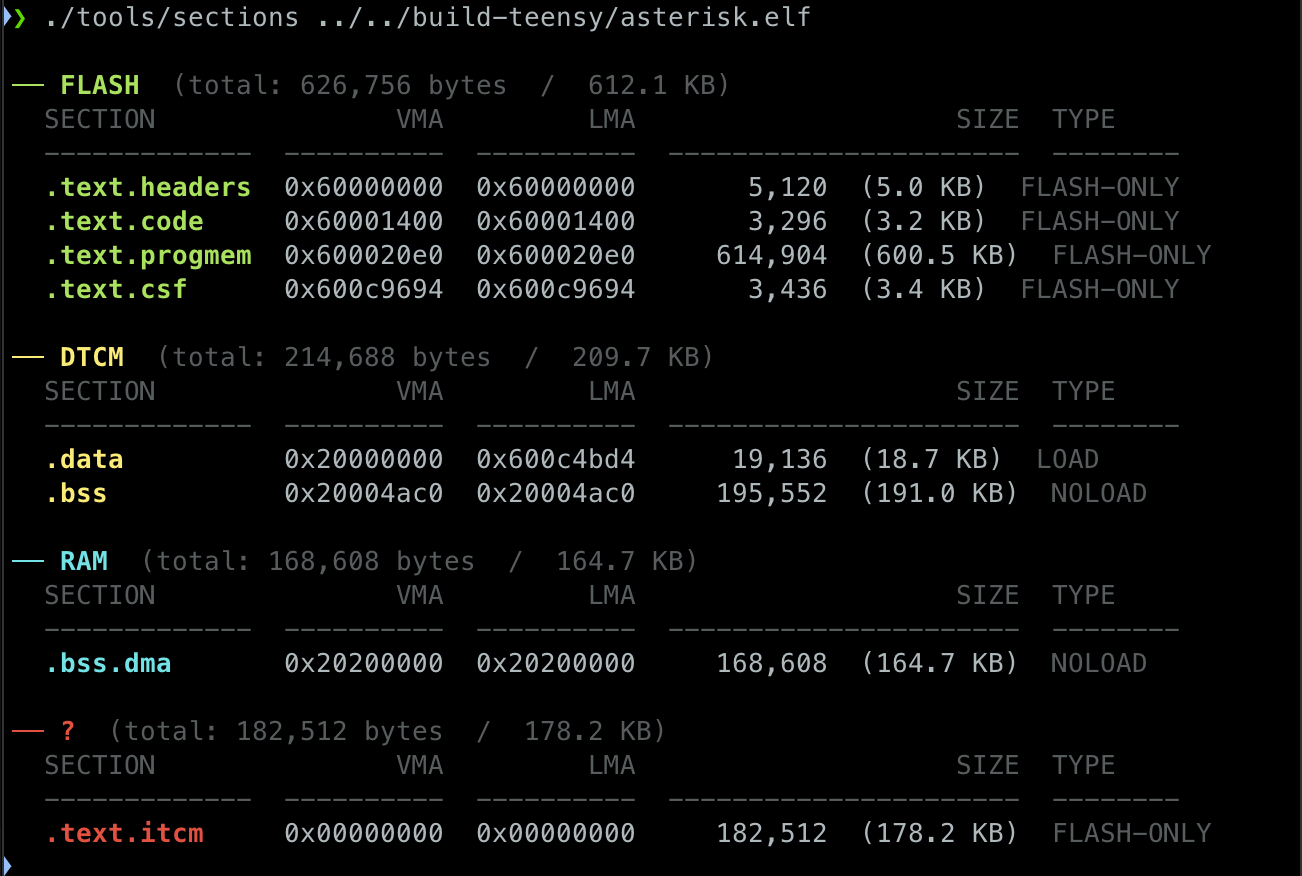
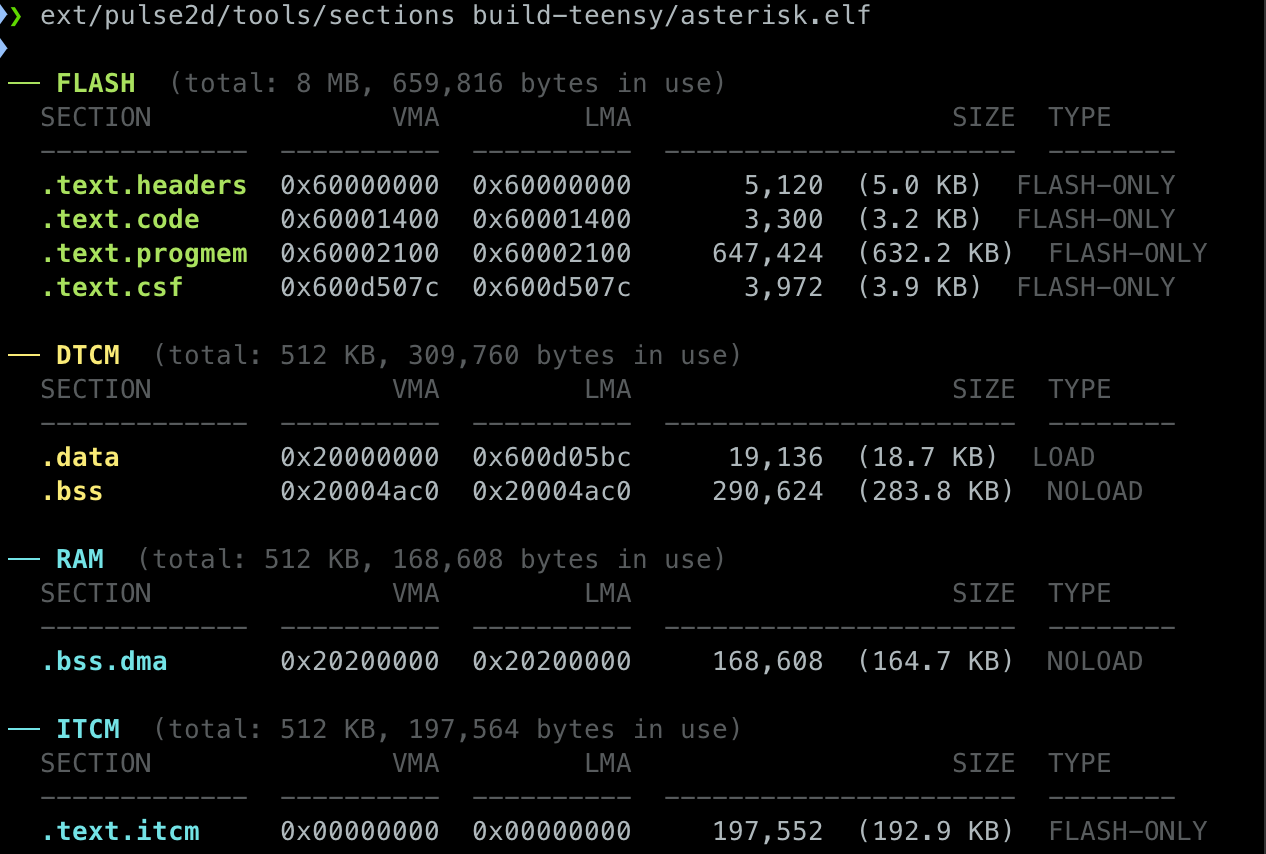
chore: sections tool ITCM region, accurate regional totals, capacity vs in-use header

diff --git a/README.md b/README.md
@@ -335,15 +335,15 @@ The gamepad driver targets the [Adafruit Seesaw Gamepad QT](https://www.adafruit
 
 ## Assets
 
-Python tools for converting PNG assets are in `tools/` - both require [Pillow](https://pillow.readthedocs.io/).
+Python tools for converting PNG assets are in `tools/`. All three require [Pillow](https://pillow.readthedocs.io/).
 
-- `png2bin` - converts a PNG to the raw RGB565 binary format read by `Storage::load_sprite` on Teensy. Use this for game-object sprites (ships, enemies, projectiles) that are loaded from the SD card at runtime. Transparent pixels become `0xF81F` (magenta chroma-key).
+- `png2bin` - converts a PNG to the raw RGB565 binary format read by `Storage::load_sprite` on Teensy. Use this for sprites (ships, enemies, projectiles) loaded from the SD card at runtime. Transparent pixels become `0xF81F` (magenta chroma-key).
 
   ```bash
   tools/png2bin sprite.png sprite.bin 64 64
   ```
 
-- `png2header` - converts a PNG to a C header containing an RGB565 pixel array for use as a full-screen background. Use `PULSE2D_SPRITE_FLASH` and `PULSE2D_ADD_PARALLAX_LAYER` to register the header as a parallax layer. The output file is generated - do not edit it by hand.
+- `png2header` - converts a PNG to a C header containing a flat RGB565 pixel array for use as a parallax background layer. Register the output with `set_sprite_flash` and `add_parallax_layer`. Do not edit the generated file by hand.
 
   ```bash
   tools/png2header background.png include/nebula-bg.h bg_1 320 240
@@ -351,7 +351,7 @@ Python tools for converting PNG assets are in `tools/` - both require [Pillow](h
 
   Generates `bg_1_width`, `bg_1_height`, and `bg_1[320 * 240]`.
 
-- `animation2header` - convert multiple PNGs to a C header containing a contiguous RGB565 pixel array for use as spritesheets.
+- `animation2header` - converts multiple PNGs to a C header containing a contiguous RGB565 pixel array for use as a spritesheet. Pass frames in order; the array is laid out sequentially.
 
   ```bash
   tools/animation2header include/laser-anim.h laser_anim 54 32 laser-sprite1.png laser-sprite2.png laser-sprite3.png
@@ -363,22 +363,23 @@ Python tools for converting PNG assets are in `tools/` - both require [Pillow](h
 
 Debugging tools (no dependencies):
 
-- `sections` - reads a compiled ELF and prints a sorted table of every output section grouped by memory region (FLASH / DTCM / RAM / ERAM), with VMA, LMA, size, and whether the section is copied to RAM at boot or flash-only. Useful for catching oversized `.data` or `.bss` before the linker rejects the binary.
+- `sections` - parses a compiled ELF and prints every allocatable section grouped by memory region (FLASH, DTCM, RAM, ERAM, ITCM), with VMA, LMA, size in bytes, and load type (FLASH-ONLY, LOAD, or NOLOAD). Each region header shows total capacity and bytes in use. Useful for catching oversized `.data` or `.bss` before the linker rejects the binary.
 
   ```bash
   tools/sections build-teensy/asterisk.elf
-  tools/sections build-teensy/asterisk.elf --all
+  tools/sections build-teensy/asterisk.elf --all        # include sections < 64 bytes
   tools/sections build-teensy/asterisk.elf --min-bytes 1024
   # or via make:
   make sections
   make sections SECTIONS_ALL=1
   ```
 
-![img](/docs/tool-sections.png)
+<img width="1266" height="854" alt="image" src="https://github.com/user-attachments/assets/458971e1-0fbf-47d1-9afe-db388e86afc5" />
+
 
 ---
 
-- `ldscript` - parses `imxrt1062_t41.ld` from the active Teensyduino install and prints the MEMORY region table and the output section → region map. The quickest way to answer "which section attribute keeps this array in flash?" without reading the raw linker script.
+- `ldscript` - parses `imxrt1062_t41.ld` from the active Teensyduino install and prints the MEMORY region table and the output section → region map. The fastest way to answer "which section attribute keeps this array in flash?" without reading the raw linker script.
 
   ```bash
   tools/ldscript
